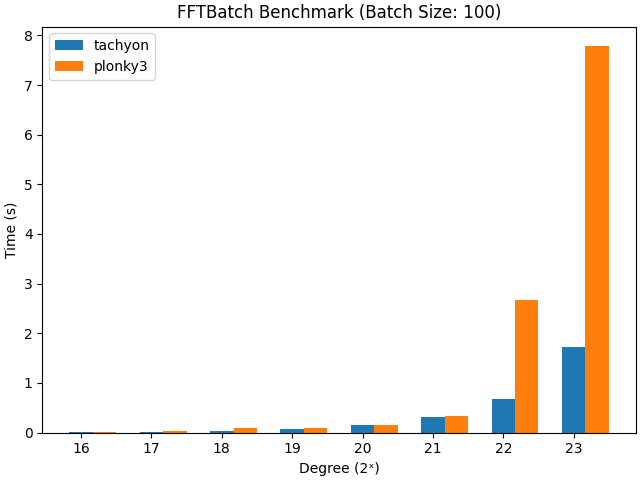
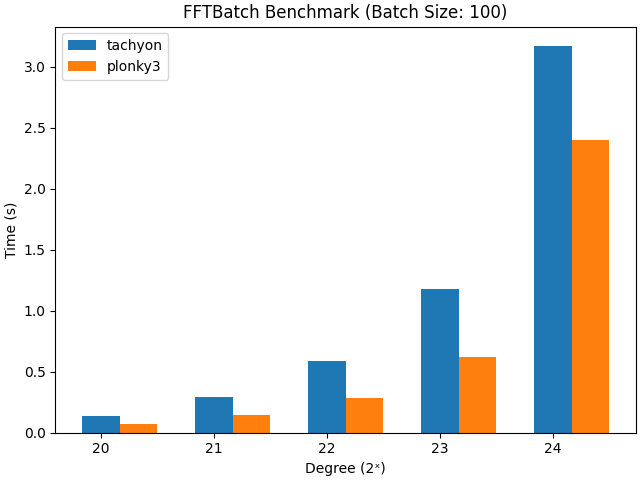
docs(benchmark): update benchmark

diff --git a/benchmark/fft_batch/README.md b/benchmark/fft_batch/README.md
@@ -20,71 +20,67 @@ CPU Caches:
 ### FFTBatch
 
 ```shell
-bazel run -c opt --//:has_openmp --//:has_rtti --//:has_matplotlib //benchmark/fft_batch:fft_batch_benchmark -- -k 16 -k 17 -k 18 -k 19 -k 20 -k 21 -k 22 -k 23 --vendor plonky3 -p baby_bear --check_results
+bazel run -c opt --//:has_openmp --//:has_rtti --//:has_matplotlib //benchmark/fft_batch:fft_batch_benchmark -- -k 20 -k 21 -k 22 -k 23 -k 24 -k 25 -k 26 --vendor plonky3 -p baby_bear --check_results
 ```
+
+WARNING: On Mac M3, tests beyond degree 24 are not feasible due to memory constraints.
 
 #### On Intel i9-13900K
 
 | Exponent | Tachyon      | Plonky3      |
 | :------- | ------------ | ------------ |
-| 16       | **0.003543** | 0.005809     |
-| 17       | **0.007168** | 0.009239     |
-| 18       | 0.027791     | **0.023848** |
-| 19       | 0.063468     | **0.049085** |
-| 20       | 0.133178     | **0.102343** |
-| 21       | 0.238817     | **0.208557** |
-| 22       | 0.507061     | **0.427260** |
-| 23       | 1.11136      | **0.922439** |
+| 20       | 0.117925     | **0.110098** |
+| 21       | 0.222959     | **0.218505** |
+| 22       | 0.459209     | **0.447758** |
+| 23       | 0.97874      | **0.964644** |
+| 24       | 2.09675      | **2.092210** |
+| 25       | **6.20441**  | 6.98453      |
+| 26       | **18.6084**  | 20.7476      |
 
 ![image](/benchmark/fft_batch/fft_batch_benchmark_ubuntu_i9.png)
 
 #### On Mac M3 Pro
 
-| Exponent | Tachyon      | Plonky3  |
-| :------- | ------------ | -------- |
-| 16       | **0.007926** | 0.01639  |
-| 17       | **0.016391** | 0.024321 |
-| 18       | **0.035098** | 0.085961 |
-| 19       | **0.076266** | 0.096928 |
-| 20       | **0.145975** | 0.151024 |
-| 21       | **0.309752** | 0.339549 |
-| 22       | **0.674991** | 2.66605  |
-| 23       | **1.727520** | 7.79002  |
+| Exponent | Tachyon   | Plonky3      |
+| :------- | --------- | ------------ |
+| 20       | 0.132521  | **0.072505** |
+| 21       | 0.287744  | **0.140527** |
+| 22       | 0.588894  | **0.280177** |
+| 23       | 1.17446   | **0.621024** |
+| 24       | 3.17213   | **2.399220** |
 
 ![image](/benchmark/fft_batch/fft_batch_benchmark_mac_m3.png)
 
 ### CosetLDEBatch
 
 ```shell
-bazel run -c opt --//:has_openmp --//:has_rtti --//:has_matplotlib //benchmark/fft_batch:fft_batch_benchmark -- -k 16 -k 17 -k 18 -k 19 -k 20 -k 21 -k 22 -k 23 --vendor plonky3 -p baby_bear --run_coset_lde --check_results
+bazel run -c opt --//:has_openmp --//:has_rtti --//:has_matplotlib //benchmark/fft_batch:fft_batch_benchmark -- -k 20 -k 21 -k 22 -k 23 -k 24 -k 25 -k 26 --vendor plonky3 -p baby_bear --run_coset_lde --check_results
 ```
+
+WARNING: On Mac M3, tests beyond degree 24 are not feasible due to memory constraints.
 
 #### On Intel i9-13900K
 
 | Exponent | Tachyon      | Plonky3  |
 | :------- | ------------ | -------- |
-| 16       | **0.008384** | 0.018529 |
-| 17       | **0.017164** | 0.043266 |
-| 18       | **0.052999** | 0.093348 |
-| 19       | **0.128624** | 0.19531  |
-| 20       | **0.246412** | 0.418079 |
-| 21       | **0.508587** | 0.816136 |
-| 22       | **1.071360** | 1.63289  |
-| 23       | **2.225130** | 3.53348  |
+| 20       | **0.241410** | 0.396681 |
+| 21       | **0.480885** | 0.794424 |
+| 22       | **0.978230** | 1.60685  |
+| 23       | **2.005920** | 3.48347  |
+| 24       | **4.615940** | 7.89591  |
+| 25       | **12.62420** | 22.158   |
+| 26       | **35.45570** | 56.9609  |
 
 ![image](/benchmark/fft_batch/coset_lde_batch_benchmark_ubuntu_i9.png)
 
 #### On Mac M3 Pro
 
-| Exponent | Tachyon      | Plonky3      |
-| :------- | ------------ | ------------ |
-| 16       | **0.013503** | 0.020251     |
-| 17       | **0.028850** | 0.044731     |
-| 18       | 0.061675     | **0.055980** |
-| 19       | 0.132670     | **0.113062** |
-| 20       | **0.263582** | 0.300933     |
-| 21       | **0.548267** | 0.573641     |
-| 22       | **1.164400** | 1.19051      |
-| 23       | **2.818220** | 5.11368      |
+| Exponent | Tachyon   | Plonky3      |
+| :------- | --------- | ------------ |
+| 20       | 0.269538  | **0.204846** |
+| 21       | 0.543247  | **0.414618** |
+| 22       | 1.15925   | **0.877114** |
+| 23       | 2.43017   | **1.835210** |
+| 24       | 6.89016   | **4.846630** |
 
 ![image](/benchmark/fft_batch/coset_lde_batch_benchmark_mac_m3.png)
